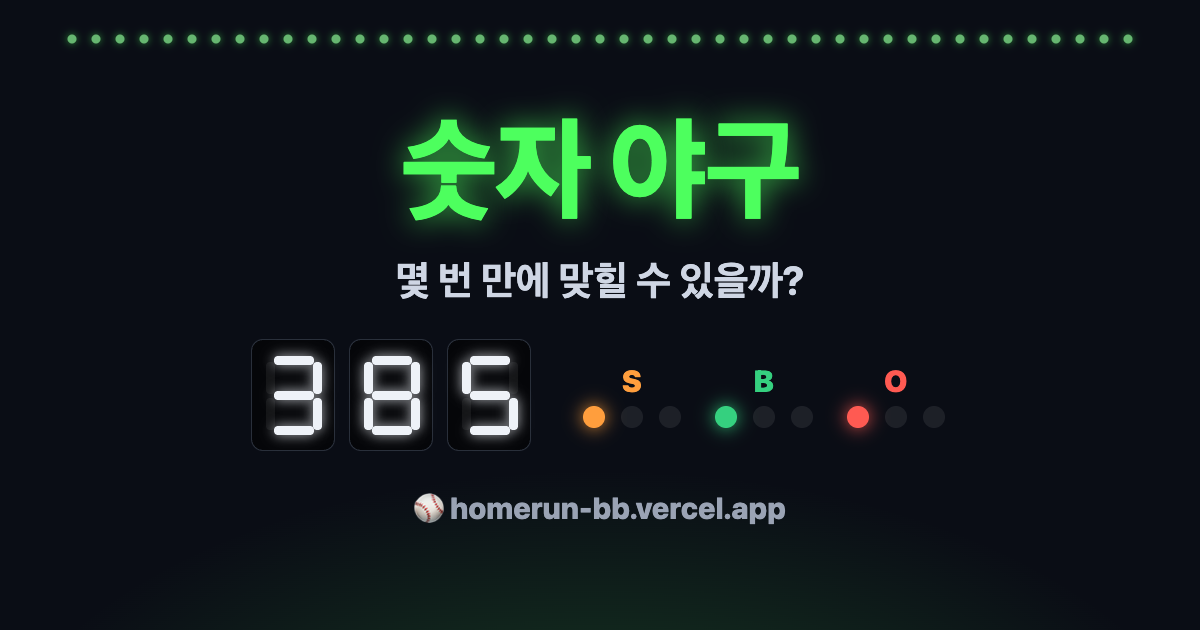
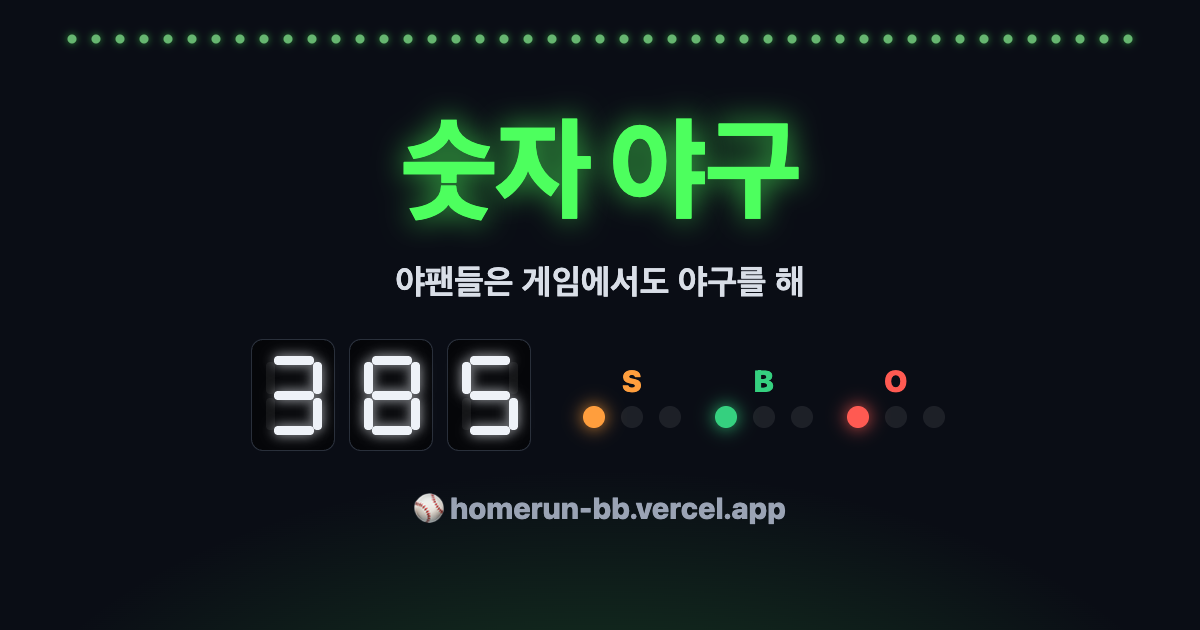
링크 미리보기 문구 교체 — '야팬들은 게임에서도 야구를 해'
- og-image.png 부제와 og:title의 '몇 번 만에 맞힐 수 있을까?'를 새 문구로
- 카톡 등 미리보기 캐시를 피하려고 og:image에 ?v=2

Changed region(s): [[0.3083, 0.3921, 0.6783, 0.4825]]

diff --git a/index.html b/index.html
@@ -16,10 +16,10 @@
     <!-- 링크 미리보기(카톡·X·인스타 DM 등). 이미지는 public/og-image.png(1200×630). -->
     <meta property="og:type" content="website" />
     <meta property="og:site_name" content="숫자 야구" />
-    <meta property="og:title" content="⚾ 숫자 야구 — 몇 번 만에 맞힐 수 있을까?" />
+    <meta property="og:title" content="⚾ 숫자 야구 — 야팬들은 게임에서도 야구를 해" />
     <meta property="og:description" content="스트라이크·볼·아웃으로 숨은 숫자를 맞혀 보세요. 혼자 또는 친구와 대결!" />
     <meta property="og:url" content="https://homerun-bb.vercel.app/" />
-    <meta property="og:image" content="https://homerun-bb.vercel.app/og-image.png" />
+    <meta property="og:image" content="https://homerun-bb.vercel.app/og-image.png?v=2" />
     <meta property="og:image:width" content="1200" />
     <meta property="og:image:height" content="630" />
     <meta name="twitter:card" content="summary_large_image" />
